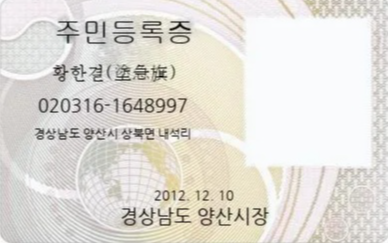
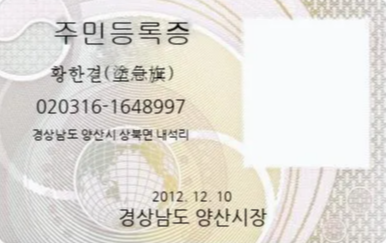
최종본 수정

diff --git a/front-end/src/component/page/loginPage/SignUpForKakao.jsx b/front-end/src/component/page/loginPage/SignUpForKakao.jsx
@@ -1,8 +1,8 @@
 import React, { useEffect , useState } from 'react';
-
 import apiSer from 'component/ApiService';
 import {useNavigate, useLocation} from 'react-router-dom';
 import getAddress from './GetAddress'
+import '../../../resource/css/SignUpForKakao.css';
 
 function SignUpForKakao() {
     const location = useLocation();
@@ -177,43 +177,47 @@ function SignUpForKakao() {
     };
 
     return (
-        <div className="signUp-container">
-            <form className="signUp-form" onSubmit={handleSubmit}>
+        <div className="SignUpForKakao-container">
+            <form className="SignUpForKakao-form" onSubmit={handleSubmit}>
                 <div className="form-row">
-                    <label>아이디</label>
+                    <label className="SignUpForKakao-label">아이디</label>
                     <input
                         type="text"
                         name="userId"
                         value={form.userId}
                         onChange={handleChange}
+                        className="SignUpForKakao-input"
                     />
                 </div>
                 <div className="form-row">
-                    <label>비밀번호</label>
+                    <label className="SignUpForKakao-label">비밀번호</label>
                     <input
                         type="password"
                         name="userPw"
                         value={form.userPw}
                         onChange={handleChange}
+                        className="SignUpForKakao-input"
                     />
                 </div>
                 <div className="form-row">
-                    <label>이름</label>
+                    <label className="SignUpForKakao-label">이름</label>
                     <input
                         type="text"
                         name="name"
                         value={form.name}
                         onChange={handleChange}
+                        className="SignUpForKakao-input"
                     />
                 </div>
                 <div className="form-row">
-                    <label>주민등록번호</label>
+                    <label className="SignUpForKakao-label">주민등록번호</label>
                     <input
                         type="text"
                         name="residentNumber1"
                         value={form.residentNumber1}
                         onChange={handleChange}
                         maxLength={6}
+                        className="SignUpForKakao-input"
                     />
                     <span>-</span>
                     <input
@@ -222,71 +226,79 @@ function SignUpForKakao() {
                         value={form.residentNumber2}
                         onChange={handleChange}
                         maxLength={7}
+                        className="SignUpForKakao-input"
                     />
                 </div>
                 <div className="form-row">
-                    <label>휴대폰 번호</label>
+                    <label className="SignUpForKakao-label">휴대폰 번호</label>
                     <input
                         type="tel"
                         name="hp"
                         value={form.hp}
                         onChange={handleChange}
                         placeholder="핸드폰 번호를 - 없이 입력하세요."
+                        className="SignUpForKakao-input"
                     />
-                    <button type="button" onClick={hpCheck}>인증번호 받기</button>
+                    <button type="button" onClick={hpCheck} className="SignUpForKakao-button">인증번호 받기</button>
                 </div>
                 {startCheckHp && (
                     <div className="form-row">
-                        <label>인증번호</label>
+                        <label className="SignUpForKakao-label">인증번호</label>
                         <input
                             type="text"
                             name="hpAuthkey"
                             value={form.hpAuthkey}
                             onChange={handleChange}
+                            className="SignUpForKakao-input"
                         />
-                        <button type="button" onClick={authingKey}>인증번호 확인</button>
+                        <button type="button" onClick={authingKey} className="SignUpForKakao-button">인증번호 확인</button>
                     </div>
                 )}
                 <div className="form-row">
-                    <label>생년월일</label>
+                    <label className="SignUpForKakao-label">생년월일</label>
                     <input
                         type="date"
                         name="birth"
                         value={form.birth}
                         onChange={handleChange}
+                        className="SignUpForKakao-input"
                     />
                 </div>
                 <div className="form-row">
-                    <label>신분증 인증</label>
+                    <label className="SignUpForKakao-label">신분증 인증</label>
                     {!ocrCheck ? (<p>인증이 완료되지 않았습니다.</p>) : (<p>인증이 완료되었습니다.</p>)}
-                    <button type="button" onClick={ocrMove}>인증하기</button>
+                    <button type="button" onClick={ocrMove} className="SignUpForKakao-button">인증하기</button>
                 </div>
                 <div className="form-row">
-                    <label>주소</label>
+                    <label className="SignUpForKakao-label">주소</label>
                     <input
                         type="text"
                         name="address1"
                         value={form.address1}
                         onChange={handleChange}
+                        className="SignUpForKakao-input"
                     />
-                    <button type="button" onClick={openPopup}>주소 검색</button>
+                    <button type="button" onClick={openPopup} className="SignUpForKakao-button">주소 검색</button>
                 </div>
                 {plusAddress && (
                     <div className="form-row">
-                        <label>추가 주소</label>
+                        <label className="SignUpForKakao-label">추가 주소</label>
                         <input
                             type="text"
                             name="address2"
                             value={form.address2}
                             onChange={handleChange}
                             placeholder="추가 주소를 입력하세요."
+                            className="SignUpForKakao-input"
                         />
                     </div>
                 )}
-                <button type="submit">가입 완료</button>
+                <button type="submit" className="SignUpForKakao-submit-button">가입 완료</button>
             </form>
         </div>
     );
+
+
 }
 
 export default SignUpForKakao;

diff --git a/front-end/src/resource/css/SignUpForKakao.css b/front-end/src/resource/css/SignUpForKakao.css
@@ -1,0 +1,95 @@
+.SignUpForKakao-container {
+    background-color: #f4f4f4;
+    padding: 30px;
+    max-width: 600px;
+    margin: 40px auto;
+    border-radius: 10px;
+    box-shadow: 0 4px 12px rgba(0, 0, 0, 0.1);
+  }
+
+  .SignUpForKakao-form {
+    width: 100%;
+    display: flex;
+    flex-direction: column;
+  }
+
+  .form-row {
+    display: flex;
+    align-items: center;
+    margin-bottom: 15px; /* 간격 조정 */
+  }
+
+  .SignUpForKakao-label {
+    font-size: 0.9rem;
+    font-weight: bold;
+    color: #333;
+    margin-right: 8px;
+    flex: 0 0 25%; /* 레이블의 너비 조정 */
+  }
+
+  .input-group {
+    display: flex; /* 입력과 버튼을 가로로 배치 */
+    align-items: center; /* 수직 정렬 */
+    flex: 1; /* 남은 공간을 차지 */
+  }
+
+  .SignUpForKakao-input,
+  .SignUpForKakao-input-half,
+  .SignUpForKakao-select {
+    padding: 10px;
+    border: 1px solid #ddd;
+    border-radius: 5px;
+    font-size: 0.9rem;
+    flex: 1; /* 입력 필드가 남은 공간을 차지 */
+    margin-right: 8px; /* 버튼과의 간격 조정 */
+  }
+
+  .SignUpForKakao-button {
+    background-color: #74a1d2;
+    color: white;
+    border: none;
+    padding: 8px 15px; /* 패딩 */
+    border-radius: 20px; /* 둥글게 만들기 */
+    cursor: pointer;
+    margin-left: 8px; /* 버튼과 다른 요소 사이의 간격 줄임 */
+    font-size: 0.9rem; /* 폰트 크기 줄임 */
+    transition: background-color 0.3s; /* 부드러운 배경색 변화 */
+  }
+
+  .SignUpForKakao-button:hover {
+    background-color: #5b8ab8; /* hover 시 색상 변경 */
+  }
+
+  .SignUpForKakao-submit-button {
+    background-color: #74a1d2;
+    color: white;
+    border: none;
+    padding: 12px 0;
+    border-radius: 5px;
+    width: 100%;
+    font-size: 1rem;
+    cursor: pointer;
+    margin-top: 15px;
+  }
+
+  .SignUpForKakao-submit-button:hover {
+    background-color: #5b8ab8;
+  }
+
+  .SignUpForKakao-message {
+    color: #ff6b6b;
+    font-size: 0.9rem;
+    margin-top: 5px;
+  }
+
+  .SignUpForKakao-auth-success {
+    color: green;
+    font-size: 0.9rem;
+  }
+
+  .SignUpForKakao-title {
+    text-align: center; /* 제목 중앙 정렬 */
+    font-size: 1.5rem; /* 제목 크기 */
+    margin-bottom: 20px; /* 제목과 폼 간격 */
+    color: #333; /* 제목 색상 */
+  }

diff --git a/front-end/src/component/page/user/MyPageChangePw.jsx b/front-end/src/component/page/user/MyPageChangePw.jsx
@@ -6,6 +6,7 @@ import 'resource/css/user/MyPageChangePw.css';
 
 function MyPageChangePw() {
     const userNo = localStorage.getItem("userNo")
+    const token = localStorage.getItem("token")
     const navigate = useNavigate();
     const [form, setForm] = useState({
         userNo : userNo,
@@ -24,7 +25,11 @@ function MyPageChangePw() {
     }
 
     const submitNewPw = () => {
-        const response = apiSer.changePassword(form)
+        const response = apiSer.changePassword(form, {
+        headers: {
+          'Authorization': `Bearer ${token}` // Authorization 헤더에 JWT 추가
+        }
+      })
         .then((response) => {
             console.log(response.data)
             if(response.data === 'ok'){

diff --git a/front-end/src/component/mainPage/ChatBotButton.jsx b/front-end/src/component/mainPage/ChatBotButton.jsx
@@ -36,15 +36,17 @@ function ChatBotButton() {
             headers: { 'Content-Type': 'application/json' },
             body: JSON.stringify({ message: userMessage })
         });
-
+        setForm({ message: '' });
+        // 입력 필드 초기화
         const data = await response.json();
         const botReply = data.reply;
 
         // 봇 응답을 채팅 상자에 추가
         setMessages([...messages, { sender: 'User', text: userMessage }, { sender: 'Bot', text: botReply }]);
 
-        // 입력 필드 초기화
-        setForm({ message: '' });
+
+
+
     };
 
     const toggleRecording = async () => {

diff --git a/front-end/src/component/ApiService.jsx b/front-end/src/component/ApiService.jsx
@@ -52,14 +52,10 @@ const apiSer = {
         console.log("token : "+ token);
         return axios.get(`${API_BASE_URL}/getUserInfo`+ '/' + userNo,token)
     },
-    changePassword:(data) => {
+    changePassword:(data,token) => {
         console.log("userPw : " + data);
         console.log("token : " + token);
-        return axios.put(`${API_BASE_URL}/changePassword`,data,{
-        headers: {
-          'Authorization': `Bearer ${token}` // Authorization 헤더에 JWT 추가
-        }
-      })
+        return axios.put(`${API_BASE_URL}/changePassword`,data,token)
     },
 
   // 자동이체 리스트 가져오기

diff --git a/front-end/src/component/mainPage/Carousel.jsx b/front-end/src/component/mainPage/Carousel.jsx
@@ -22,7 +22,7 @@ function Carousel_Main() {
     <div className='Carousel_div'>
       <div className='Carousel_Tab'>
         <Carousel activeIndex={index} onSelect={handleSelect}>
-          <Carousel.Item onClick={() => handleClick('/ReceivedPaidMain')} style={{ cursor: 'pointer' }}>
+          <Carousel.Item onClick={() => handleClick('/loanmain/loandetail/3')} style={{ cursor: 'pointer' }}>
             <img
               className="d-block w-100"
               src={product1}

diff --git a/front-end/src/component/page/product/deposit/DepositJoinFinish.jsx b/front-end/src/component/page/product/deposit/DepositJoinFinish.jsx
@@ -15,7 +15,7 @@ const CompletePage = () => {
   }, [navigate]);
 
   const goToDepositSearch = () => {
-    navigate('/DepositSearch'); // DepositSearch 페이지로 이동
+    navigate('/accounts'); // DepositSearch 페이지로 이동
   };
 
   return (
